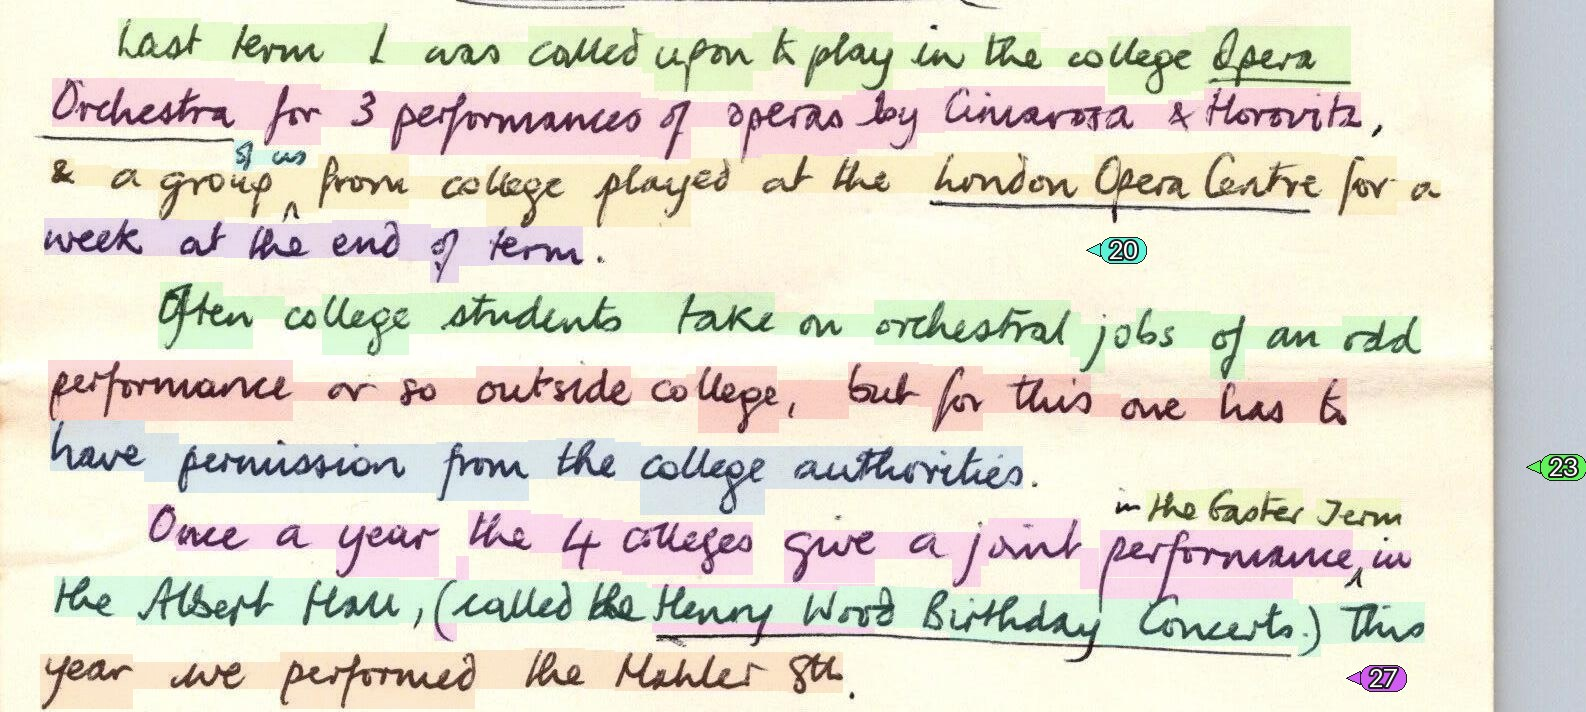
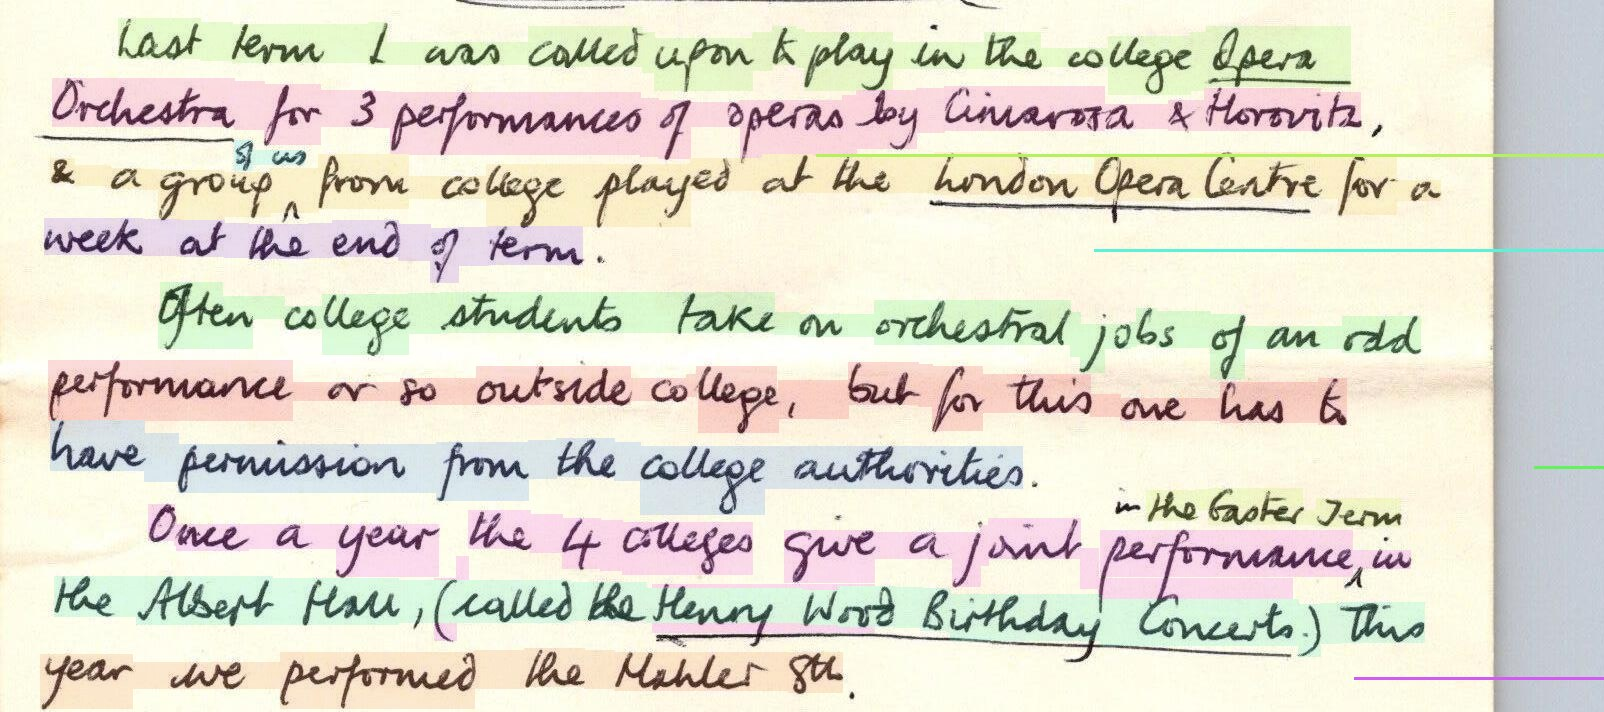
feat: the row numbers get a reserved column to the right of the page
The model's own reasoning showed thirteen of page-01's numbers never reaching
it: told "exactly rows 16..27", band 2's reply reads "the image only shows rows
20,21,22,23,27 — maybe the other rows (16-19, 24-26) are not present. But the
user says they are. I think there's a mistake here, but I'll proceed with what's
visible." The pills were placed just right of each line, and the writing's right
edge is ragged, so they ended up scattered through the margin where the reader
did not find them.

Numbers now live in one reserved strip past the widest line (page-01: writing
ends x2006, the column starts x2030), each centred on its own row, in the row's
own hue, with a pointer and a leader line back to the line it labels. The band
crop includes the column.

Changed region(s): [[0.0309, 0.0, 1.0, 1.0], [0.587, 0.0, 0.6179, 0.0309], [0.2781, 0.0, 0.309, 0.0309]]

diff --git a/document/numbered_rows.py b/document/numbered_rows.py
@@ -24,6 +24,8 @@ from tools.row import Row
 
 ROW_NUM_SIZE = 26  # px: the pill's number, the review surface's own type size
 PILL_POINTER = 14  # px: how far the pill's pointer reaches back toward its row
+COLUMN_WIDTH = 120  # px: the numbered column added to the page's right side
+COLUMN_GAP = 24  # px: air between the writing's widest line and the column
 PILL_RADIUS = 12  # px: the pill's corner (`.rv-rownum`'s 10px at page scale)
 PILL_PAD_X = 8  # px: air either side of the number
 PILL_PAD_Y = 4  # px: air above and below it
@@ -94,9 +96,8 @@ class NumberedRows:
             word.x1 for row in ordered for word in row.word_boxes
         ]
         ink_left = max(0, int(min(xs) if xs else 0) - INK_MARGIN)
-        ink_right = min(page.width, int(max(xs) if xs else page.width) + INK_MARGIN)
         _number_left, number_right = cls.numbers_extent(ordered)
-        ink_right = min(page.width, int(max(float(ink_right), float(number_right))) + INK_MARGIN)
+        ink_right = int(number_right) + INK_MARGIN
         out: list[NumberedRows] = []
         for index in range(strips):
             band_top = int(bounds[index]) - (BAND_OVERLAP if index else 0)
@@ -169,15 +170,7 @@ class NumberedRows:
             # pills lay over a neighbour's writing (row 6's covered row 7, and
             # the tail stack's covered each other) — ink under a label is ink
             # the reader cannot see, and the repeats followed exactly that.
-            own = max(word.x1 for word in row.word_boxes) if row.word_boxes else row.band.x1
-            covered = [
-                word.rect.x1
-                for other in rows
-                for word in other.word_boxes
-                if word.rect.y0 < bottom and top < word.rect.y1
-            ]
-            left = max([own, *covered]) + PILL_INSET
-            boxes.append((left, top, left + width, bottom))
+            boxes.append((_column_left(rows), top, _column_left(rows) + width, bottom))
         return boxes
 
     @classmethod
@@ -197,9 +190,12 @@ class NumberedRows:
             # can be matched to its line by colour alone
             red, green, blue, _alpha = style.colour(index)
             fill = (red, green, blue)
+            row_edge = max((word.x1 for word in row.word_boxes), default=row.band.x1)
+            centre_y = (top + bottom) / 2
+            draw.line([(row_edge, centre_y), (left, centre_y)], fill=fill, width=3)
             draw.polygon(
                 [
-                    (left - PILL_POINTER, (top + bottom) / 2),
+                    (left - PILL_POINTER, centre_y),
                     (left, top + (bottom - top) / 4),
                     (left, bottom - (bottom - top) / 4),
                 ],
@@ -221,6 +217,16 @@ class NumberedRows:
         """How many rows this image labels — the universe its reading must
         cover (one reading per number, none missing)."""
         return len(self.numbers)
+
+
+def _column_left(rows: list[Row]) -> float:
+    """The numbered column's left edge: clear of the writing's widest line, so
+    every number sits in one reserved strip with its own pointer back to its
+    row. Placing each pill just right of its own line put thirteen of page-01's
+    numbers out in the ragged margin, where the model could not find them: told
+    "exactly rows 16..27", it found five of them and reported the rest empty."""
+    widest = max((word.x1 for row in rows for word in row.word_boxes), default=0.0)
+    return widest + COLUMN_GAP
 
 
 def _cut_gaps(rows: list[Row], *, strips: int, top: float, bottom: float) -> list[float]:
